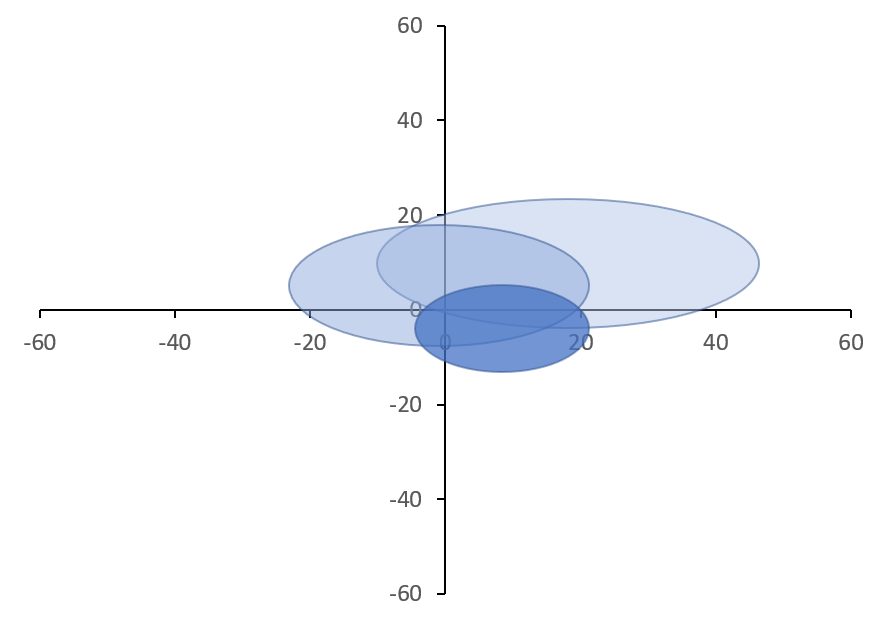
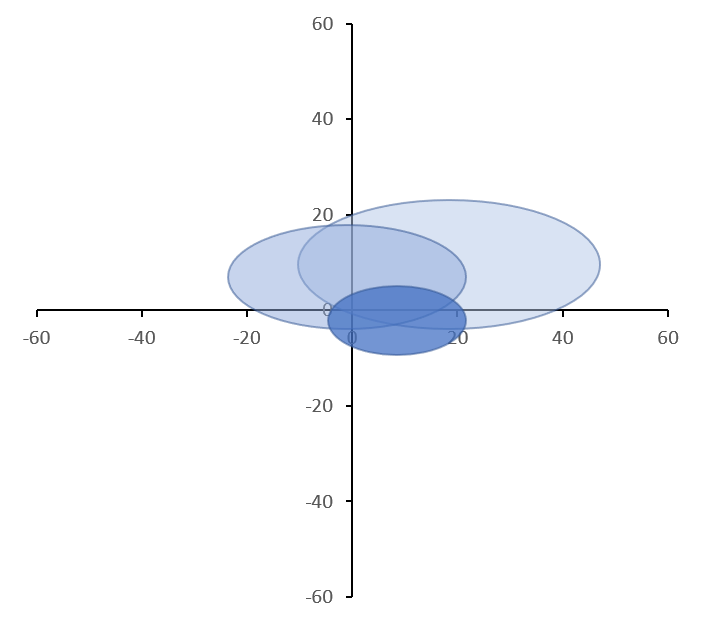
further analysis pages - putting these on separate pages and giving each a unique title

diff --git a/app/views/PoC-evolution.html b/app/views/PoC-evolution.html
@@ -10,17 +10,19 @@ My satellite environment
   <main class="govuk-main-wrapper">
     <div class="govuk-grid-row">
       <div class="govuk-grid-column-two-thirds">
-        <h1 class="govuk-heading-xl">AA00-0001: Conjunction event map</h1>
-                      <p></p>
-            <p> This map shows the predicted conjunction event location using UKSA data.
+        <h1 class="govuk-heading-xl">AA00-0001: Evolution of conjunction probability</h1>
+            <p></p>
+            <p> This page contains the latest data released by UKSA for this conjunction event.
               For an explanation of how this data was calculated, and what it means, please see our <a class="govuk-link" href="data-explanation.html">data explanation.</a> </p>
-            <h2 class="govuk-heading-m">Predicted conjunction location: UKSA data</h2>
-            <img src="/public/images/map-1.png" alt="Conjunction Data message">
-        </div>
+              <h2 class="govuk-heading-m">Evolution of conjunction probability</h2>
+            <p> This graph shows the changing probability of a conjunction event occuring over time.
+            Data from both the USA and UKSA is shown. </p>
+              <img src="/public/images/chart-2.png" alt="User icon">
+            </div>
         <div class="govuk-grid-column-one-third">
           <h2 class="govuk-heading-m">All alerts</h2>
 
-          <a href="operator-homepage" class="govuk-link--no-visited-state">View alert homepage</a>
+          <a href="operator-homepage" class="govuk-link--no-visited-state">View Alert Homepage</a>
           <p>
             </p>
             <h2 class="govuk-heading-m">Notification settings</h2>
@@ -29,9 +31,9 @@ My satellite environment
             </p>
             <h2 class="govuk-heading-m">Contact an Analyst</h2>
             <a href="communication" class="govuk-link--no-visited-state">View your communications history</a>
-          </div>
-          </div>
+        </div>
 
+  </main>
 </div>
 
 

diff --git a/app/views/error-ellipsoid-analysis.html b/app/views/error-ellipsoid-analysis.html
@@ -10,17 +10,19 @@ My satellite environment
   <main class="govuk-main-wrapper">
     <div class="govuk-grid-row">
       <div class="govuk-grid-column-two-thirds">
-        <h1 class="govuk-heading-xl">AA00-0001: Conjunction event map</h1>
-                      <p></p>
-            <p> This map shows the predicted conjunction event location using UKSA data.
+        <h1 class="govuk-heading-xl">AA00-0001: Error elipsoid analysis</h1>
+            <p></p>
+            <p> This page contains the latest data released by UKSA for this conjunction event.
               For an explanation of how this data was calculated, and what it means, please see our <a class="govuk-link" href="data-explanation.html">data explanation.</a> </p>
-            <h2 class="govuk-heading-m">Predicted conjunction location: UKSA data</h2>
-            <img src="/public/images/map-1.png" alt="Conjunction Data message">
-        </div>
+              <h2 class="govuk-heading-m">Error elipsoid analysis</h2>
+              <p> Each error ellipsoid shows the uncertainity of an objects position in time.
+                  <img src="/public/images/chart-1.png" alt="Conjunction Data message">
+
+          </div>
         <div class="govuk-grid-column-one-third">
           <h2 class="govuk-heading-m">All alerts</h2>
 
-          <a href="operator-homepage" class="govuk-link--no-visited-state">View alert homepage</a>
+          <a href="operator-homepage" class="govuk-link--no-visited-state">View Alert Homepage</a>
           <p>
             </p>
             <h2 class="govuk-heading-m">Notification settings</h2>
@@ -29,9 +31,9 @@ My satellite environment
             </p>
             <h2 class="govuk-heading-m">Contact an Analyst</h2>
             <a href="communication" class="govuk-link--no-visited-state">View your communications history</a>
+  </div>
           </div>
-          </div>
-
+  </main>
 </div>
 
 

diff --git a/app/views/warning-1.html b/app/views/warning-1.html
@@ -128,14 +128,17 @@ My satellite environment
                     </tr>
                   </tbody>
                 </table>
-                <h2 class="govuk-heading-l">Further Analysis</h2>
+                <h2 class="govuk-heading-l">Further analysis</h2>
                 <p> Further analysis can provide you with more detailed information on the predicted conjunction event. Select the analysis you would like to view.
                 <ul class="govuk-list">
                   <li>
-                    <a class="govuk-link" href="graph-analysis.html">View graphical analysis</a>
+                    <a class="govuk-link" href="PoC-evolution.html">Probability of conjunction evolution</a>
                   </li>
                   <li>
-                    <a class="govuk-link" href="map-analysis.html">View maps data</a>
+                    <a class="govuk-link" href="error-ellipsoid-analysis.html">Error ellipsoid analysis</a>
+                  </li>
+                  <li>
+                    <a class="govuk-link" href="map-analysis.html">Conjunction event location map</a>
                   </li>
                 </ul>
                 <h2 class="govuk-heading-l">Alert history</h2>
